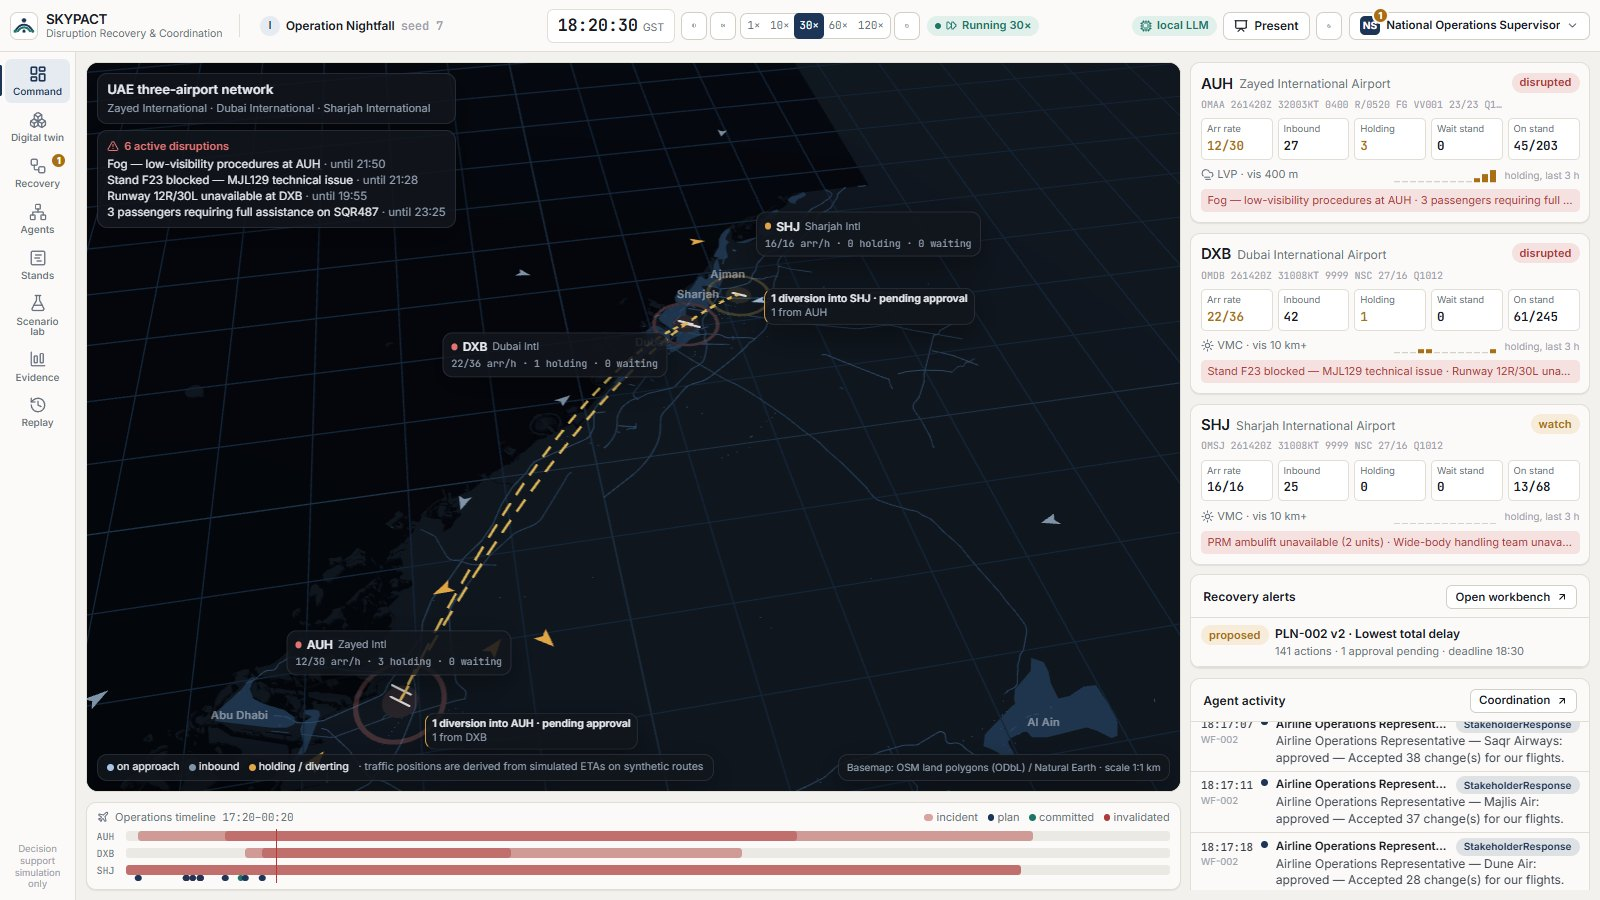
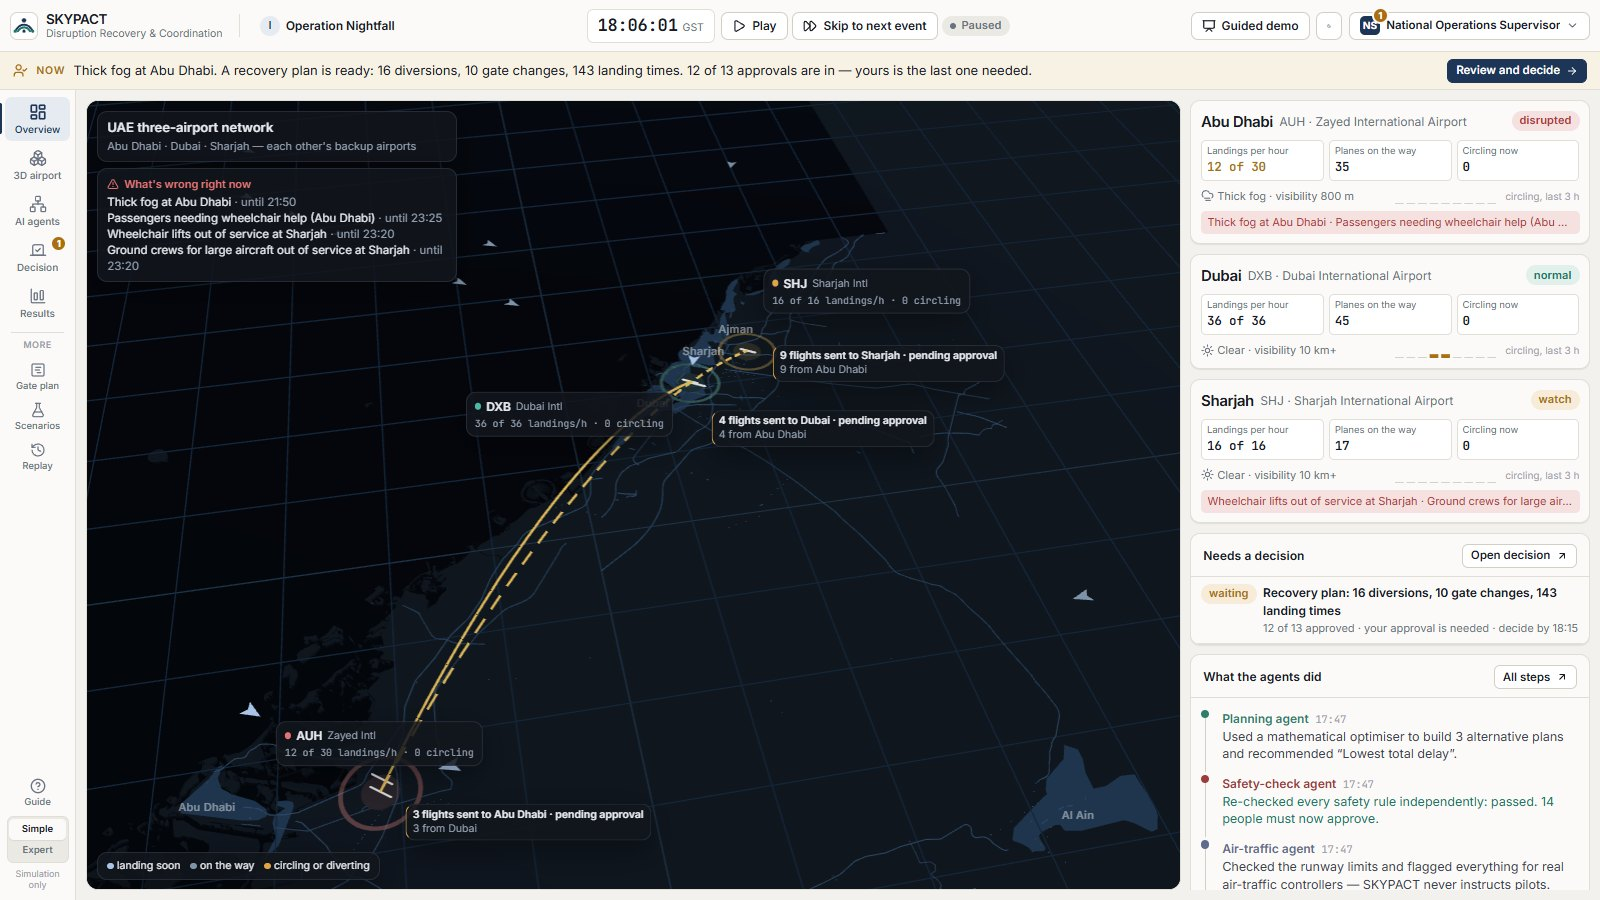
Refresh every README screenshot with the simplified interface
All eight images now show the current Simple mode: the closer 3D views
without the old status, runway and legend cards, the AI agents scene
replaying a conversation, the Decision view waiting for approval, Results
and the Overview.

diff --git a/README.md b/README.md
@@ -17,17 +17,17 @@ data and original Blender models.
 > All flights, airlines (11 fictional carriers) and operational numbers are **synthetic**. Airport geometry comes from
 > OpenStreetMap and public aeronautical information; nothing here represents real airline or airport operational data.
 
-![Digital twin of Zayed International in night fog: low-visibility procedures, a recovery plan previewed in 3D](docs/images/twin-auh-fog-night.jpg)
+![3D view of Abu Dhabi airport in night fog, with the recovery plan previewed in violet](docs/images/twin-auh-fog-night.jpg)
 
 <sup>Screen captures of the running prototype (Operation Nightfall, seed 7; synthetic traffic, fictional airlines).</sup>
 
 | | |
 |---|---|
 | ![Terminal A, Zayed International](docs/images/twin-auh-terminal-a.jpg) | ![Sharjah International terminal](docs/images/twin-shj-terminal.jpg) |
-| ![Dubai International with a runway closed and diversions arriving](docs/images/twin-dxb-runway-closure.jpg) | ![Agents coordinating, guided presentation](docs/images/agents-presentation.jpg) |
-| ![Recovery workbench: candidates vs baselines, approvals, audit](docs/images/workbench.jpg) | ![Evidence: before/after from the same pre-commit state](docs/images/evidence.jpg) |
+| ![Dubai International with a runway closed and diversions arriving](docs/images/twin-dxb-runway-closure.jpg) | ![AI agents: replaying the conversation between the agents](docs/images/agents-presentation.jpg) |
+| ![Decision: the problem, the plan, what it should achieve and who must approve](docs/images/workbench.jpg) | ![Results: the approved plan against doing nothing and each airport alone](docs/images/evidence.jpg) |
 
-![Command view: the three-airport network, live traffic and diversion flows awaiting approval](docs/images/command.jpg)
+![Overview: the three airports, live traffic, what is wrong and what needs a decision](docs/images/command.jpg)
 
 ---
 
